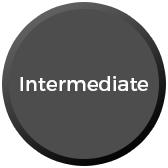
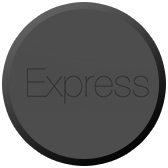
오버 이미지 수정 및 인트로 텍스트 잘림 수정

Changed region(s): [[0.119, 0.4464, 0.8929, 0.5655]]

diff --git a/src/views/Intro.vue b/src/views/Intro.vue
@@ -15,16 +15,17 @@
         </p>
         <br />
         <p>
-          <span>IE(Internet Explorer) 11버전 미만의 브라우저</span>에서는 화면이 제대로 표시되지 않을 수 있습니다.
-          <br class="mobile" />
+          <span>IE(Internet Explorer) 11버전 미만의 브라우저</span>에서는
+          <br class="mobile" />화면이 제대로 표시되지 않을 수 있습니다.
+          <br />
           <br />
           <span>크롬(Chrome)</span>브라우저에서 가장 정확한 내용의 컨텐츠를 확인하실 수 있습니다.
         </p>
         <br />
-        <p class="alert">제작자의 허락없이 본 사이트의 내용을 다른 사이트에 무단으로 게시하는것을 금합니다.</p>
+        <p class="alert">본 사이트의 내용을 다른 사이트에 무단으로 게시하는것을 금합니다.</p>
         <div class="container-btn">
           <button @click="goMain()">
-            작업물 보러가기
+            들어가기
             <figure>
               <img src="../assets/image/arrow.png" alt="go main" />
             </figure>

diff --git a/src/components/Skills.vue b/src/components/Skills.vue
@@ -204,17 +204,21 @@ export default {
             position: relative;
             &:hover {
               &:after {
-                // content: attr(data-grage);
-                content: "";
+                content: attr(data-grage);
+                // content: "";
                 position: absolute;
                 top: 50%;
                 left: 50%;
                 transform: translate(-50%, -50%);
                 font-size: 1rem;
                 font-weight: normal;
-                color: #ffffff;
                 display: block;
                 pointer-events: none;
+                font-family: "Montserrat";
+                font-size: 1.25rem;
+                font-weight: normal;
+                text-align: center;
+                color: #ffffff;
               }
             }
           }
